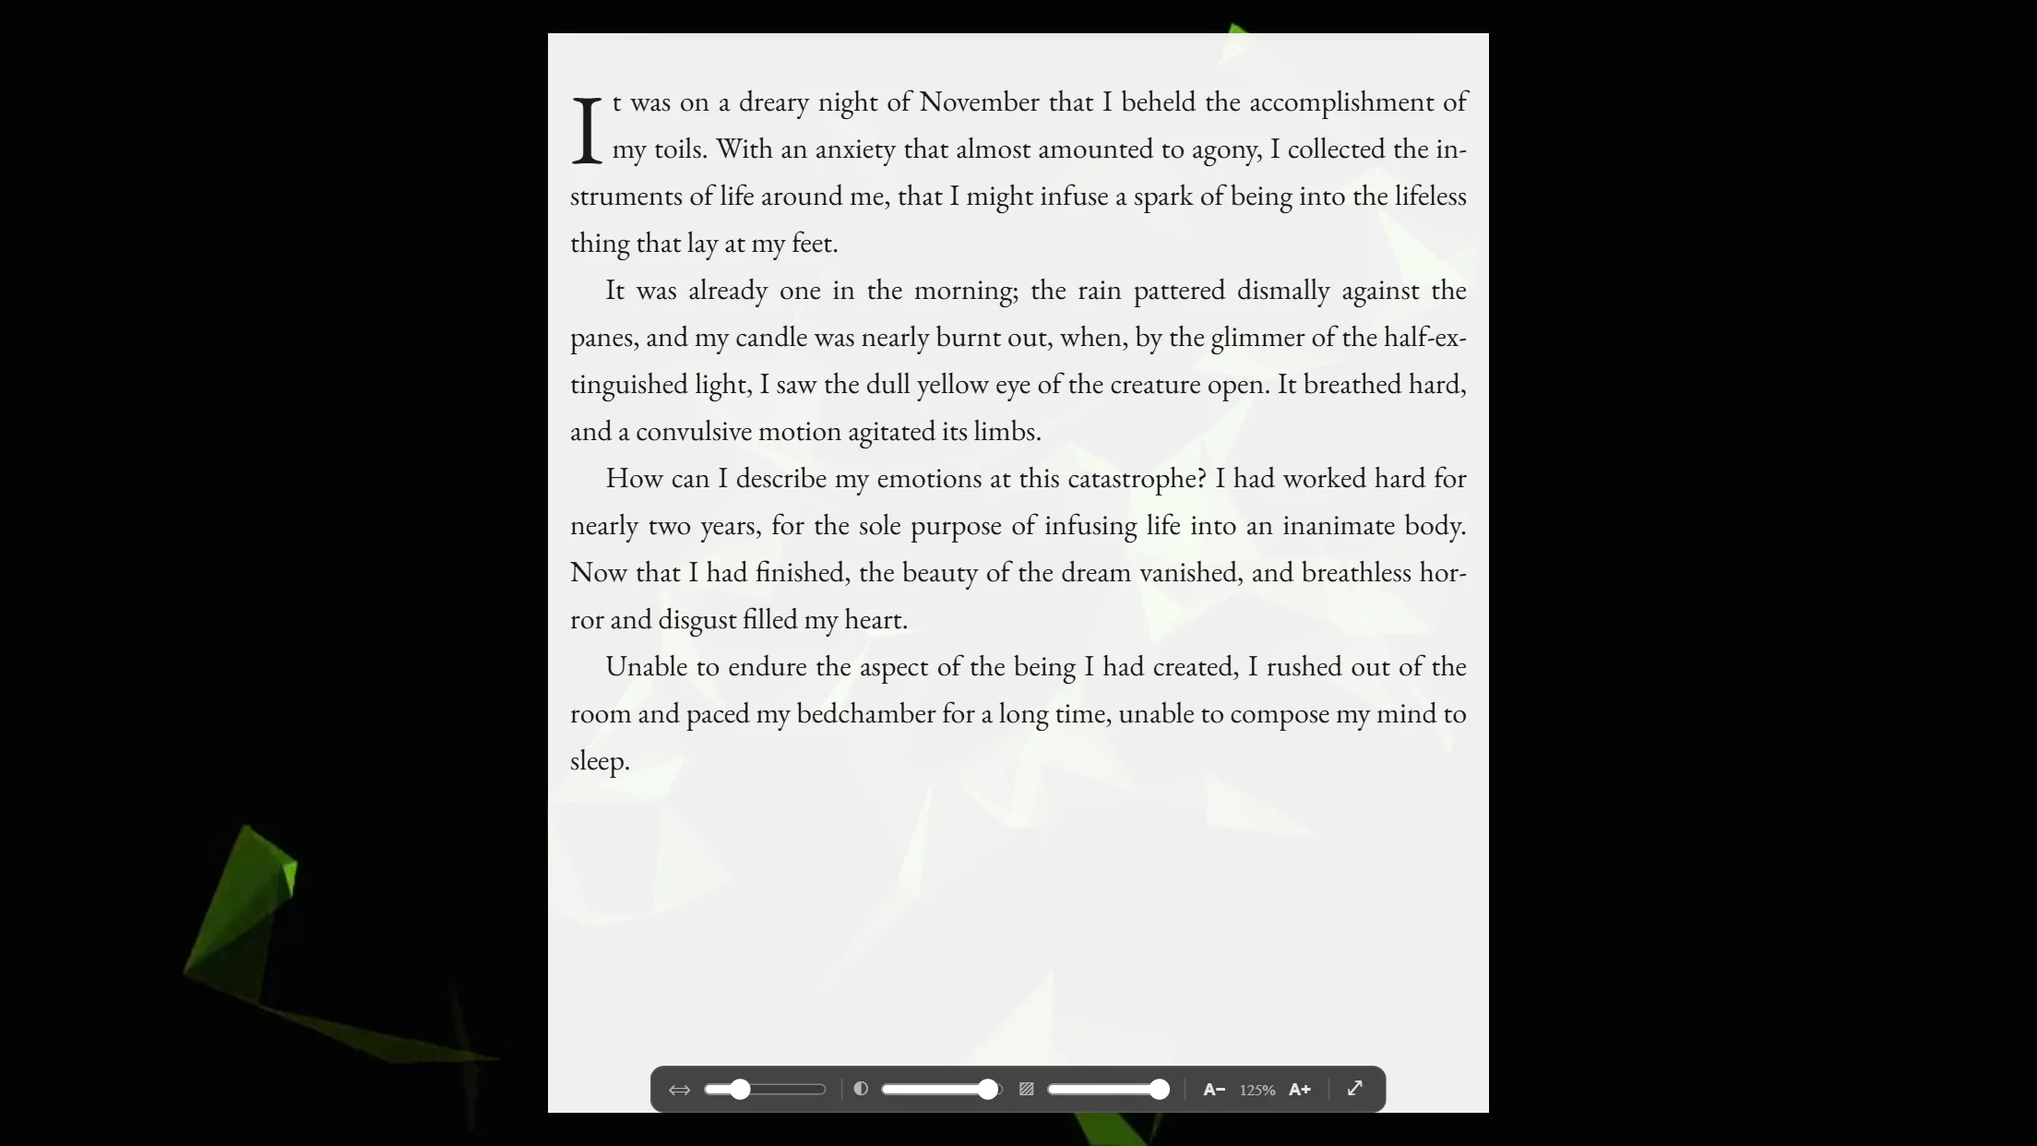
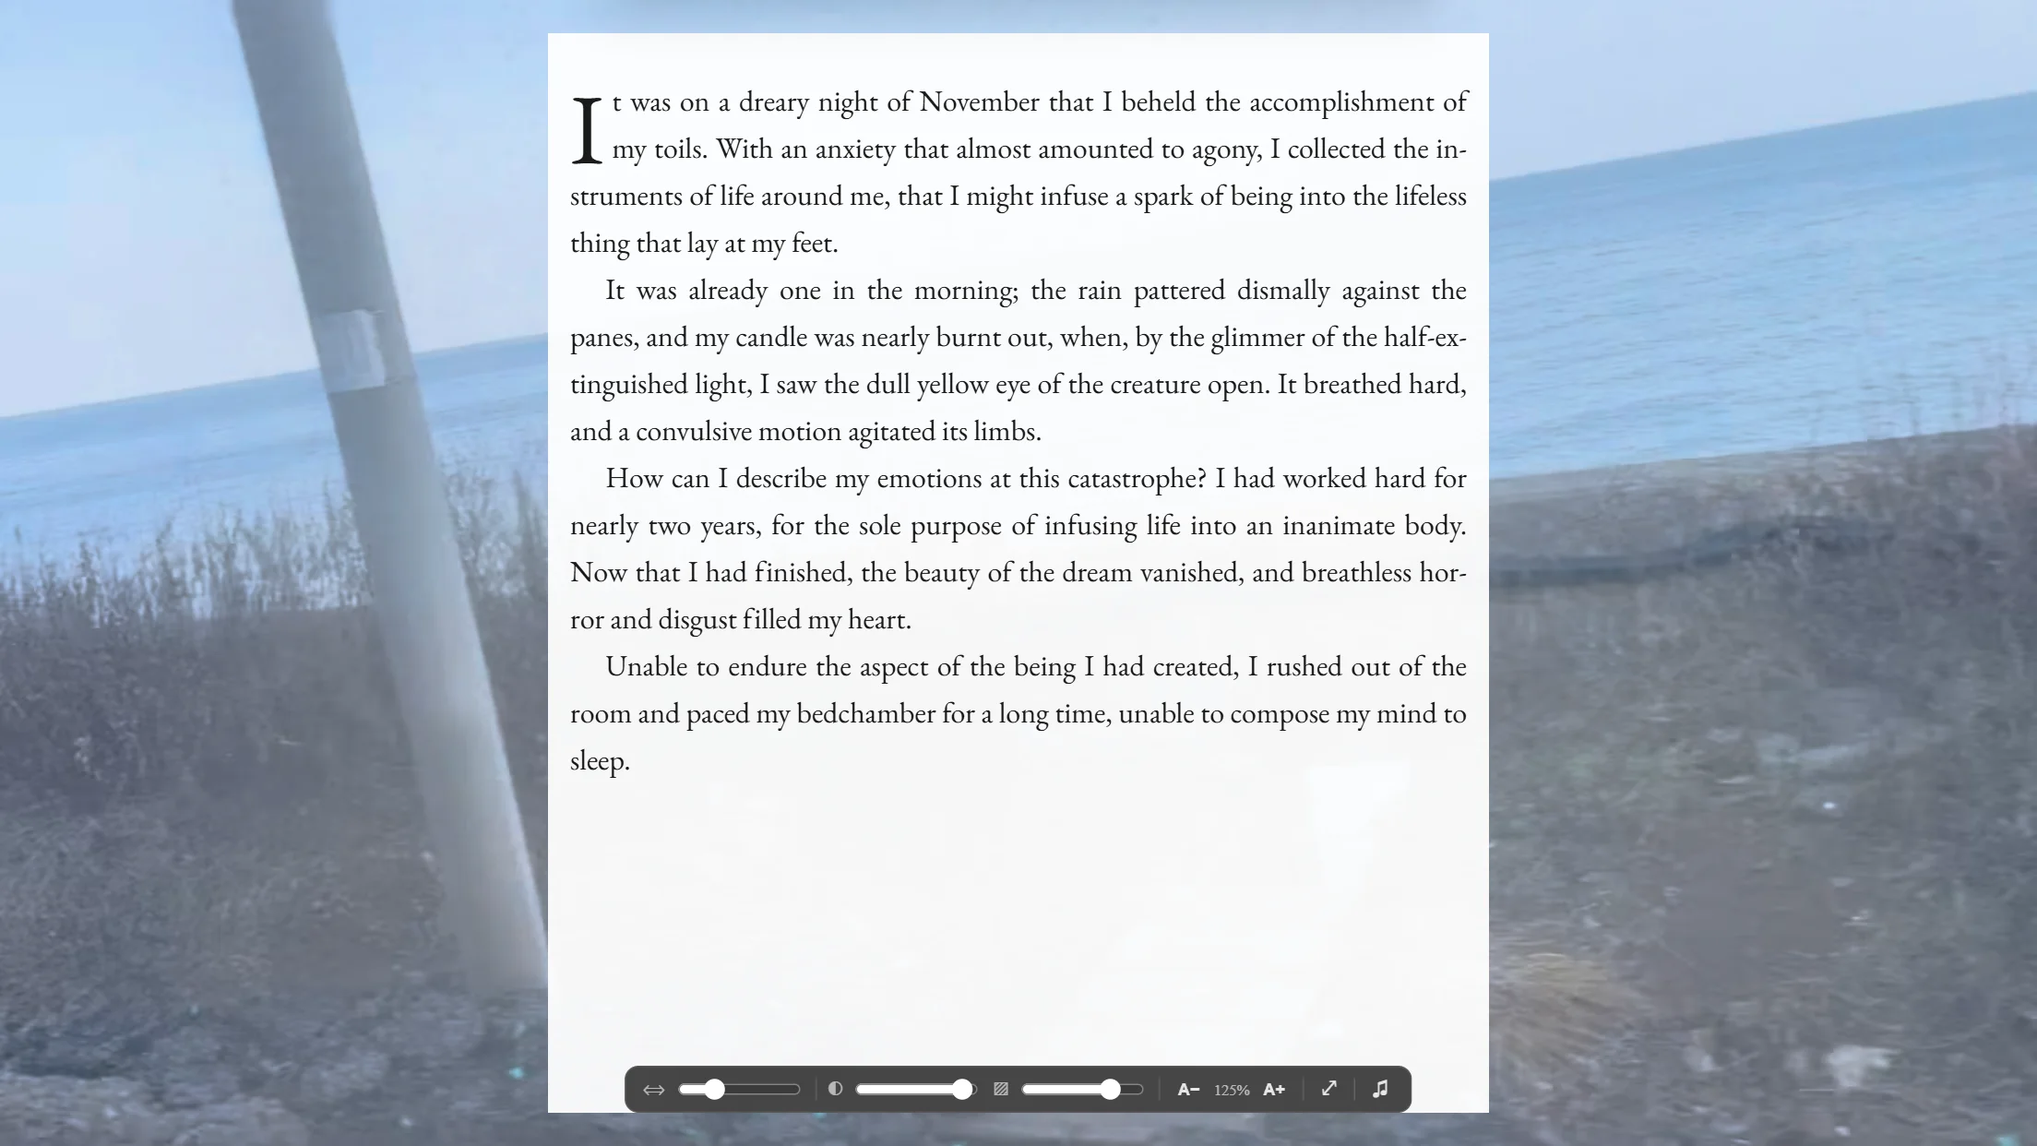
feat: video 07 v2 with a gallery background and a train playing behind the page; distraction-free shot over the train
Claude-Session: https://claude.ai/code/session_014mtNwLdF8tPkdeafqe6Yv6

diff --git a/es/index.html b/es/index.html
@@ -122,7 +122,7 @@ Nadie ha tenido una infancia más feliz que la mía. Mis padres estaban hechos d
       <div class="videos" id="videos">
         <h3>Mira el recorrido</h3>
         <p>Vídeos cortos, cada uno sobre una parte de Corylus, grabados con libros de ejemplo. Cada uno está también junto a la parte de esta página que enseña. Los he escrito yo; la voz que narra es sintética.</p>
-        <ol class="video-list"><li><a href="#hero-video">El tráiler</a> <span class="len">· 1:44</span></li><li><a href="#safety">Cuatro formas de perder un libro</a> <span class="len">· 5:13</span></li><li><a href="#structure">Doscientas piezas</a> <span class="len">· 4:16</span></li><li><a href="#revise">Dejas de ver tus propias palabras</a> <span class="len">· 3:00</span></li><li><a href="#bible">La Biblia de la historia</a> <span class="len">· 4:12</span></li><li><a href="#environment">Solo tú y el texto</a> <span class="len">· 3:01</span></li><li><a href="#finish">Compilar</a> <span class="len">· 1:42</span></li><li><a href="#writing">La mesa de trabajo</a> <span class="len">· 2:03</span></li><li><a href="#languages">En español</a> <span class="len">· 2:30</span></li><li><a href="#read-aloud">En voz alta</a> <span class="len">· 1:08</span></li><li><a href="#extras">Las partes opcionales con IA</a> <span class="len">· 3:16</span></li><li><a href="#diagnostics">Enviar diagnóstico</a> <span class="len">· 2:36</span></li></ol>
+        <ol class="video-list"><li><a href="#hero-video">El tráiler</a> <span class="len">· 1:44</span></li><li><a href="#safety">Cuatro formas de perder un libro</a> <span class="len">· 5:13</span></li><li><a href="#structure">Doscientas piezas</a> <span class="len">· 4:16</span></li><li><a href="#revise">Dejas de ver tus propias palabras</a> <span class="len">· 3:00</span></li><li><a href="#bible">La Biblia de la historia</a> <span class="len">· 4:12</span></li><li><a href="#environment">Solo tú y el texto</a> <span class="len">· 3:30</span></li><li><a href="#finish">Compilar</a> <span class="len">· 1:42</span></li><li><a href="#writing">La mesa de trabajo</a> <span class="len">· 2:03</span></li><li><a href="#languages">En español</a> <span class="len">· 2:30</span></li><li><a href="#read-aloud">En voz alta</a> <span class="len">· 1:08</span></li><li><a href="#extras">Las partes opcionales con IA</a> <span class="len">· 3:16</span></li><li><a href="#diagnostics">Enviar diagnóstico</a> <span class="len">· 2:36</span></li></ol>
         <p><a href="https://www.youtube.com/playlist?list=PLAx-paBq5bo8" rel="noopener">Abre la lista en YouTube</a></p>
       </div>
     </div>
@@ -168,7 +168,7 @@ Nadie ha tenido una infancia más feliz que la mía. Mis padres estaban hechos d
     <div class="wrap">
       <h2>Solo tú y el texto</h2>
       <p class="lead">Corylus puede esconderlo todo menos la página, ponerle un vídeo detrás y hacer que llueva mientras escribes.</p>
-      <article class="video video-block"><div class="video-frame" data-video="uVxwszwxb-U" data-title="Solo tú y el texto"><a class="video-play" href="https://www.youtube.com/watch?v=uVxwszwxb-U" aria-label="Reproducir «Solo tú y el texto» (carga YouTube)"><img src="../assets/videos/es/environment.webp" alt="" width="1280" height="720" loading="lazy"><span class="video-btn" aria-hidden="true"><svg viewBox="0 0 24 24" width="28" height="28" aria-hidden="true" focusable="false"><path d="M8 5.5v13l11-6.5z" fill="currentColor"/></svg></span><span class="video-len">3:01</span></a></div><div class="video-text"><h3>Solo tú y el texto</h3><p>El modo sin distracciones, un vídeo detrás de la página, sonidos ambientales, el modo enfoque y los temas. Con Escape vuelve todo a su sitio.</p><p class="note video-note">El vídeo se reproduce desde YouTube, que solo se carga cuando le das a reproducir. <a href="https://www.youtube.com/watch?v=uVxwszwxb-U">Verlo en YouTube</a></p></div></article>
+      <article class="video video-block"><div class="video-frame" data-video="HBH8hr-0-w0" data-title="Solo tú y el texto"><a class="video-play" href="https://www.youtube.com/watch?v=HBH8hr-0-w0" aria-label="Reproducir «Solo tú y el texto» (carga YouTube)"><img src="../assets/videos/es/environment.webp" alt="" width="1280" height="720" loading="lazy"><span class="video-btn" aria-hidden="true"><svg viewBox="0 0 24 24" width="28" height="28" aria-hidden="true" focusable="false"><path d="M8 5.5v13l11-6.5z" fill="currentColor"/></svg></span><span class="video-len">3:30</span></a></div><div class="video-text"><h3>Solo tú y el texto</h3><p>El modo sin distracciones, un fondo de la galería con un vídeo que se mueve detrás de la página, sonidos ambientales, el modo enfoque y los temas. Con Escape vuelve todo a su sitio.</p><p class="note video-note">El vídeo se reproduce desde YouTube, que solo se carga cuando le das a reproducir. <a href="https://www.youtube.com/watch?v=HBH8hr-0-w0">Verlo en YouTube</a></p></div></article>
       <div class="feature"><div><h3>Modo sin distracciones</h3><p>Con un atajo desaparecen la Carpeta, la barra de herramientas y los paneles, y la ventana pasa a pantalla completa. Pon detrás de una página translúcida un vídeo en bucle o una imagen tuya, y elige cuánto se transparenta. Hay una galería de fondos, y su botón «Add to Corylus» muestra el tamaño, el crédito y la licencia y pregunta antes de descargar nada. Esc lo devuelve todo a su sitio.</p><p class="feat-link"><a href="https://ludobermejoes.github.io/corylus-distractionfree-wallpaper" rel="noopener">Abre la galería de fondos</a></p></div><figure class="feature-shot"><a class="zoom" href="../assets/shots/es/distraction-free.webp"><img src="../assets/shots/es/distraction-free.webp" alt="El modo sin distracciones: un capítulo sobre una página translúcida delante de un vídeo de fondo, con la barra de controles flotante." width="2208" height="1242" loading="lazy"></a></figure></div><div class="feature"><div><h3>Sonidos ambientales</h3><p>Un mezclador de sonidos de fondo: lluvia, olas, murmullo de cafetería y muchos más, cada uno con su volumen. Guarda las mezclas que te gusten y ponlas o páralas desde la barra de herramientas, también en el modo sin distracciones. Los sonidos son una sola descarga.</p></div><figure class="feature-shot"><a class="zoom" href="../assets/shots/es/ambient-sounds.webp"><img src="../assets/shots/es/ambient-sounds.webp" alt="El mezclador de Sonidos Ambientales, con los sonidos agrupados por categoría y un control de volumen para cada uno." width="2208" height="1242" loading="lazy"></a></figure></div><div class="feature"><div><h3>Temas y tipografía</h3><p>Elige un tema de color para la ventana, entre ellos Nord, Solarized, Dracula y dos de alto contraste, y aparte un color de página: blanco, sepia, pergamino o noche. Los estilos de tipografía fijan la letra, el interlineado y las sangrías, desde párrafos modernos en bloque hasta un manuscrito a doble espacio para enviar a editoriales, y puedes crear los tuyos. Nada de esto cambia tus archivos.</p></div><figure class="feature-shot"><a class="zoom" href="../assets/shots/es/themes.webp"><img src="../assets/shots/es/themes.webp" alt="Un capítulo con otro tema de color." width="2208" height="1242" loading="lazy"></a></figure></div>
       <ul class="grid two"><li><h3>Enfoque y máquina de escribir</h3><p>El modo enfoque atenúa todo menos la frase o el párrafo en el que estás. El desplazamiento máquina de escribir mantiene la línea que escribes en el centro de la pantalla.</p></li></ul>
     </div>

diff --git a/index.html b/index.html
@@ -122,7 +122,7 @@ No human being could have passed a happier childhood than myself. My parents wer
       <div class="videos" id="videos">
         <h3>Watch the tour</h3>
         <p>Short videos, one part of Corylus each, filmed on demo books. Each one also sits next to the part of this page it shows. I wrote them; the narrator is a synthetic voice.</p>
-        <ol class="video-list"><li><a href="#hero-video">The trailer</a> <span class="len">· 1:25</span></li><li><a href="#safety">Four ways to lose a book</a> <span class="len">· 4:12</span></li><li><a href="#structure">Two hundred pieces</a> <span class="len">· 3:41</span></li><li><a href="#revise">When you stop seeing your words</a> <span class="len">· 2:22</span></li><li><a href="#bible">The Story Bible</a> <span class="len">· 3:34</span></li><li><a href="#environment">Just you and the text</a> <span class="len">· 2:34</span></li><li><a href="#finish">Compile</a> <span class="len">· 1:26</span></li><li><a href="#writing">The desk</a> <span class="len">· 1:42</span></li><li><a href="#read-aloud">Read aloud</a> <span class="len">· 1:00</span></li><li><a href="#extras">The optional AI parts</a> <span class="len">· 2:38</span></li><li><a href="#diagnostics">Send diagnostics</a> <span class="len">· 2:11</span></li></ol>
+        <ol class="video-list"><li><a href="#hero-video">The trailer</a> <span class="len">· 1:25</span></li><li><a href="#safety">Four ways to lose a book</a> <span class="len">· 4:12</span></li><li><a href="#structure">Two hundred pieces</a> <span class="len">· 3:41</span></li><li><a href="#revise">When you stop seeing your words</a> <span class="len">· 2:22</span></li><li><a href="#bible">The Story Bible</a> <span class="len">· 3:34</span></li><li><a href="#environment">Just you and the text</a> <span class="len">· 2:58</span></li><li><a href="#finish">Compile</a> <span class="len">· 1:26</span></li><li><a href="#writing">The desk</a> <span class="len">· 1:42</span></li><li><a href="#read-aloud">Read aloud</a> <span class="len">· 1:00</span></li><li><a href="#extras">The optional AI parts</a> <span class="len">· 2:38</span></li><li><a href="#diagnostics">Send diagnostics</a> <span class="len">· 2:11</span></li></ol>
         <p><a href="https://www.youtube.com/playlist?list=PLM2yuZIkkOv4" rel="noopener">Open the playlist on YouTube</a></p>
       </div>
     </div>
@@ -168,7 +168,7 @@ No human being could have passed a happier childhood than myself. My parents wer
     <div class="wrap">
       <h2>Just you and the text</h2>
       <p class="lead">Corylus can hide everything but the page, set a video behind it and play the rain while you write.</p>
-      <article class="video video-block"><div class="video-frame" data-video="kN2WJV-iD6Y" data-title="Just you and the text"><a class="video-play" href="https://www.youtube.com/watch?v=kN2WJV-iD6Y" aria-label="Play “Just you and the text” (loads YouTube)"><img src="assets/videos/en/environment.webp" alt="" width="1280" height="720" loading="lazy"><span class="video-btn" aria-hidden="true"><svg viewBox="0 0 24 24" width="28" height="28" aria-hidden="true" focusable="false"><path d="M8 5.5v13l11-6.5z" fill="currentColor"/></svg></span><span class="video-len">2:34</span></a></div><div class="video-text"><h3>Just you and the text</h3><p>Distraction-free mode, a video behind the page, ambient sounds, focus mode and themes. Escape brings everything back.</p><p class="note video-note">The video plays from YouTube, which loads only when you press play. <a href="https://www.youtube.com/watch?v=kN2WJV-iD6Y">Watch on YouTube</a></p></div></article>
+      <article class="video video-block"><div class="video-frame" data-video="WmB_OSwDEIU" data-title="Just you and the text"><a class="video-play" href="https://www.youtube.com/watch?v=WmB_OSwDEIU" aria-label="Play “Just you and the text” (loads YouTube)"><img src="assets/videos/en/environment.webp" alt="" width="1280" height="720" loading="lazy"><span class="video-btn" aria-hidden="true"><svg viewBox="0 0 24 24" width="28" height="28" aria-hidden="true" focusable="false"><path d="M8 5.5v13l11-6.5z" fill="currentColor"/></svg></span><span class="video-len">2:58</span></a></div><div class="video-text"><h3>Just you and the text</h3><p>Distraction-free mode, a background from the gallery with a video playing behind the page, ambient sounds, focus mode and themes. Escape brings everything back.</p><p class="note video-note">The video plays from YouTube, which loads only when you press play. <a href="https://www.youtube.com/watch?v=WmB_OSwDEIU">Watch on YouTube</a></p></div></article>
       <div class="feature"><div><h3>Distraction-free mode</h3><p>One shortcut hides the Binder, the toolbar and the panels and takes the window full screen. Put a looping video or a picture of your own behind a translucent page and choose how much of it shows through. There is a gallery of backgrounds, and its “Add to Corylus” button shows the size, credit and licence and asks before it downloads anything. Esc brings everything back.</p><p class="feat-link"><a href="https://ludobermejoes.github.io/corylus-distractionfree-wallpaper" rel="noopener">Open the background gallery</a></p></div><figure class="feature-shot"><a class="zoom" href="assets/shots/distraction-free.webp"><img src="assets/shots/distraction-free.webp" alt="Distraction-free mode: a chapter on a translucent page over a background video, with the floating control bar." width="2208" height="1242" loading="lazy"></a></figure></div><div class="feature"><div><h3>Ambient sounds</h3><p>A mixer of background sounds: rain, waves, café chatter and many more, each at its own volume. Save the mixes you like, and play or stop them from the toolbar, in distraction-free mode too. The sounds are a single download.</p></div><figure class="feature-shot"><a class="zoom" href="assets/shots/ambient-sounds.webp"><img src="assets/shots/ambient-sounds.webp" alt="The Ambient Sounds mixer, with sounds grouped by category and a volume slider for each." width="2208" height="1242" loading="lazy"></a></figure></div><div class="feature"><div><h3>Themes and typography</h3><p>Pick a colour theme for the window, among them Nord, Solarized, Dracula and two high-contrast ones, and a separate page colour: white, sepia, parchment or night. Typography presets set the font, spacing and indents, from modern block paragraphs to a double-spaced manuscript for submissions, and you can make your own. None of this changes your files.</p></div><figure class="feature-shot"><a class="zoom" href="assets/shots/themes.webp"><img src="assets/shots/themes.webp" alt="A chapter shown in a different colour theme." width="2208" height="1242" loading="lazy"></a></figure></div>
       <ul class="grid two"><li><h3>Focus and typewriter scrolling</h3><p>Focus mode dims everything except the sentence or the paragraph you are in. Typewriter scrolling keeps the line you are typing in the middle of the screen.</p></li></ul>
     </div>

diff --git a/build.py b/build.py
@@ -102,7 +102,7 @@ VIDEOS = {
     "revise":     {"en": ("obfF5Uef2rQ", "2:22"), "es": ("b4rsl6WUxsw", "3:00")},
     "support":    {"en": ("I2qQx5kCSQU", "2:27"), "es": ("18i34szblOA", "3:00")},
     "bible":      {"en": ("P4cMXc4OirQ", "3:34"), "es": ("u6rPogkU30Q", "4:12")},
-    "environment": {"en": ("kN2WJV-iD6Y", "2:34"), "es": ("uVxwszwxb-U", "3:01")},
+    "environment": {"en": ("WmB_OSwDEIU", "2:58"), "es": ("HBH8hr-0-w0", "3:30")},
     "finish":     {"en": ("0gLDxraAzQ4", "1:26"), "es": ("3u5rcd4sC4w", "1:42")},
     "writing":    {"en": ("jqCa2NjBkWo", "1:42"), "es": ("AQ-8G3jMrxM", "2:03")},
     "languages":  {"es": ("LZ2FLWUHbE4", "2:30")},
@@ -210,7 +210,7 @@ STRINGS = {
             "bible": ("The Story Bible", "Characters, places and their relationships, filmed with the cast of Frankenstein. The map draws its lines from the entries, so the two cannot disagree."),
             "revise": ("When you stop seeing your words", "The marks for repeated words, monotonous rhythm and accidental rhyme. Each one is off until you switch it on, and none of them rewrites a word."),
             "read-aloud": ("Read aloud", "Corylus reads your chapter one sentence at a time and keeps that sentence lit. One minute."),
-            "environment": ("Just you and the text", "Distraction-free mode, a video behind the page, ambient sounds, focus mode and themes. Escape brings everything back."),
+            "environment": ("Just you and the text", "Distraction-free mode, a background from the gallery with a video playing behind the page, ambient sounds, focus mode and themes. Escape brings everything back."),
             "safety": ("Four ways to lose a book", "Four failures, from the app disappearing to a dead computer, and what is still on your disk after each one."),
             "finish": ("Compile", "The book put back together in Binder order and exported to Word, PDF or EPUB, inside Corylus, with nothing else to install."),
             "extras": ("The optional AI parts", "The assistant that runs on your computer, and how an AI app such as Claude connects to a project, with a permission you set per project. Both stay off until you install them."),
@@ -461,7 +461,7 @@ STRINGS = {
             "bible": ("La Biblia de la historia", "Personajes, lugares y sus relaciones, con el reparto de Frankenstein. El mapa saca sus líneas de las entradas, así que no puede contradecirlas."),
             "revise": ("Dejas de ver tus propias palabras", "Las marcas de palabras repetidas, ritmo monótono y rimas involuntarias. Todas están apagadas hasta que las enciendes, y ninguna reescribe nada."),
             "read-aloud": ("En voz alta", "Corylus te lee el capítulo frase a frase y deja iluminada la que está leyendo. Un minuto."),
-            "environment": ("Solo tú y el texto", "El modo sin distracciones, un vídeo detrás de la página, sonidos ambientales, el modo enfoque y los temas. Con Escape vuelve todo a su sitio."),
+            "environment": ("Solo tú y el texto", "El modo sin distracciones, un fondo de la galería con un vídeo que se mueve detrás de la página, sonidos ambientales, el modo enfoque y los temas. Con Escape vuelve todo a su sitio."),
             "safety": ("Cuatro formas de perder un libro", "Cuatro fallos, desde que el programa desaparece hasta que el ordenador se muere, y lo que sigue en tu disco después de cada uno."),
             "finish": ("Compilar", "Las piezas juntas otra vez en el orden de la Carpeta y exportadas a Word, PDF o EPUB, dentro de Corylus y sin instalar nada más."),
             "languages": ("En español", "Repeticiones contadas por la raíz, rima consonante y asonante, comillas angulares y comprobaciones que solo existen en español."),

diff --git a/assets/shots/README.md b/assets/shots/README.md
@@ -17,7 +17,7 @@ from the e2e dev build with `web/tools/shots.mjs`. The copy refers to them by id
 | `rhyme` | End rhymes underlined (light / bright / sight / white / night). |
 | `thesaurus` | Right-click on "happier": the Synonyms (and Antonyms) menu. |
 | `grammar` | LanguageTool flagging "He have waited", with its suggestion menu. |
-| `distraction-free` | Distraction-free mode over a background video, with the HUD (width, opacity, text size, fullscreen). |
+| `distraction-free` | Distraction-free mode over a background video (the gallery's train, `video/vehicles/train-scene-1`, mid-motion), with the HUD (width, opacity, text size, fullscreen). |
 | `ambient-sounds` | The ambient sounds mixer: presets, and a mix of Rain on Window and Campfire (paused). |
 | `snapshots` | The Snapshots tab: three snapshots and the diff of "First draft" against the current text. |
 | `compile` | The compile dialog: scope tree, status filter, format, Word / PDF / EPUB. |
@@ -77,7 +77,7 @@ while it captures, so letter edges carry no colour fringes. Total for the 25 sho
 
 Side effects, all inside the e2e app's own data: `grammar` starts LanguageTool,
 `sync` starts the rclone engine (it never connects), `ambient-sounds` installs the
-sound pack on first run, `distraction-free` stores a background video
-(`assets/distractionfree-wallpaper/videos/abstract/18849-297379170_medium.webm`),
+sound pack on first run, `distraction-free` downloads the gallery's train background
+(`video/vehicles/train-scene-1`, 61.8 MB) on first run and sets it in use,
 `read-aloud` plays about two seconds of audio, and `backups` writes up to three
 backups to `C:\tmp\corylus-site\Corylus backups`.
